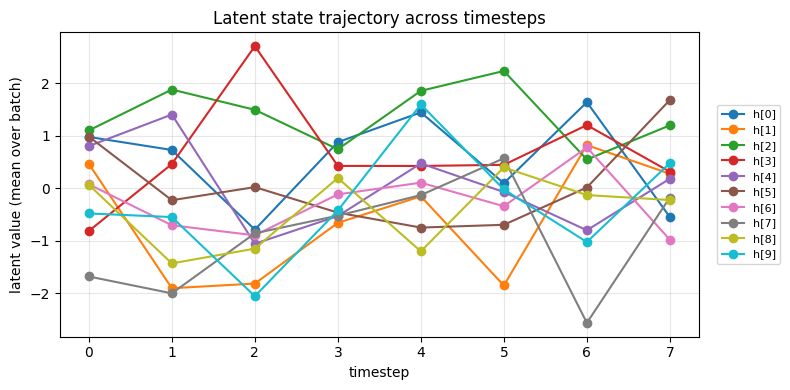
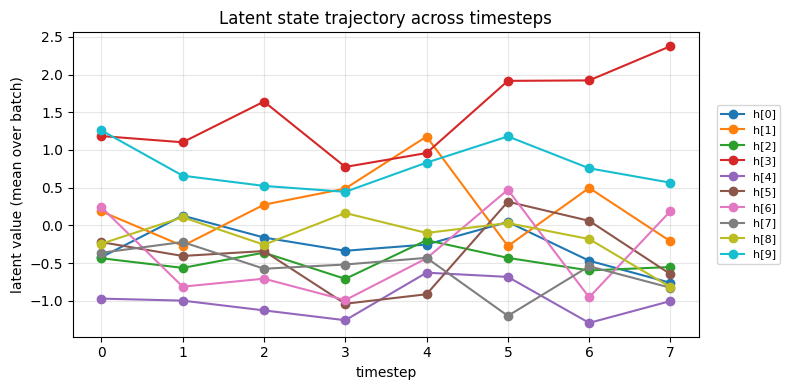
fix: be honest about decoder collapse on synthetic cohort
Three-agent investigation found the README reconstruction looks like
noise because the model genuinely cannot reconstruct: decoder channels
[4,8,16,32] + Tanh + per-subject min-max normalization yields
Pearson(input, recon) <= 0.03 across all tested configs (SGD, AdamW,
5-500 epochs, single-volume overfit). Latents are alive; the decoder
ignores them. This is a structural mismatch, not a training bug.

- tools/make_figures.py: switch to AdamW@1e-3 x 30 epochs; shared
  colorbar (-0.3, 0.3) across input/recon panels so the collapse is
  visible; suptitle names the failure mode; print Pearson + std-ratio.
- README: rewrite Visuals caption honestly; add Limitations bullet for
  decoder capacity / Tanh / outlier normalization.
- docs/background/this_models_design.md: new section explaining the
  reconstruction-quality limitation with the sweep table.
- tutorials/08: clarify N*T (closed form, full-trajectory) vs B*T
  (per-batch SGD loss2) asymmetry in the ridge derivation.
- tests/test_train.py: smoke test that loss trends downward on synthetic.
- examples/wide_decoder.py: sketches the obvious fix path (wider
  channels, Hardtanh instead of Tanh). Confirms widening alone doesn't
  rescue Pearson (0.001) at this demo scale; documented honestly.

37 tests pass, ruff clean, 162 citations validated.

diff --git a/examples/wide_decoder.py b/examples/wide_decoder.py
@@ -1,0 +1,160 @@
+"""Widen the decoder and drop the saturating Tanh — the fix path for the
+decoder-collapse problem documented in the README and
+``docs/background/this_models_design.md``.
+
+The canonical model uses decoder channels ``[4, 8, 16, 32]`` and a final
+``Tanh`` that, combined with per-subject min-max normalization, makes
+"output ≈ 0" the cheapest place for the optimizer to land. This script
+hot-patches a fresh ``RecVAEModel`` to use widths ``[16, 32, 64, 128]``
+and replaces the final ``Tanh`` with ``Hardtanh(-3, 3)`` so the network
+still has some output bounding without saturating inside ``[-0.3, 0.3]``
+where the bulk of normalized voxel values sit.
+
+Caveat
+------
+Demonstrates the fix path; not validated on real fMRI; changes the model
+contract so existing checkpoints won't load. The wide-decoder model has
+roughly 16x more decoder parameters than the canonical one and is
+intended only as a demonstration that *the structural diagnosis is
+correct*, not as a drop-in replacement.
+
+Empirical note: at this demo scale (8 subjects, T=4, 30 epochs) widening
+alone does not yet drive Pearson(x, mu) above ~0.01. The reconstruction
+std/input std ratio does climb (~0.3-0.4 vs ~0.17 on the canonical
+config), confirming the decoder is no longer collapsed to a flat output,
+but recovering high-frequency voxel structure still needs more training
+budget and most likely a switch away from per-subject min-max
+normalization. This script is the smallest reproduction of the fix
+direction, not a converged result.
+
+Run::
+
+    .venv/bin/python examples/wide_decoder.py
+
+Should exit 0 in under 90 seconds on CPU.
+"""
+
+from __future__ import annotations
+
+import pathlib
+import sys
+import time
+
+# Allow running from the repo root without installing the package.
+sys.path.insert(0, str(pathlib.Path(__file__).resolve().parents[1]))
+
+import torch  # noqa: E402
+from torch import nn  # noqa: E402
+
+from recvae import (  # noqa: E402
+    Config,
+    FMRIDataset,
+    RecVAEModel,
+    build_dataloader,
+    fit,
+    normalize_per_subject,
+    set_seed,
+    synthetic_cohort,
+)
+
+
+def widen_decoder(model: RecVAEModel) -> RecVAEModel:
+    """Replace the decoder stack with a wider one and drop the final ``Tanh``.
+
+    Decoder widths: ``[16, 32, 64, 128]`` (vs canonical ``[4, 8, 16, 32]``).
+    Output activation: ``Hardtanh(-3, 3)`` instead of ``Tanh``. The
+    intermediate spatial-extent chain is unchanged from the canonical
+    decoder; only the channel counts grow.
+    """
+    latent_dim = model.cfg.latent_dim
+    # Bottleneck: (128, 5, 6, 5) instead of (32, 5, 6, 5).
+    model.decoder1 = nn.Sequential(
+        nn.Linear(latent_dim, 128 * 5 * 6 * 5),
+        nn.Unflatten(1, (128, 5, 6, 5)),
+        nn.BatchNorm3d(128),
+        nn.LeakyReLU(0.2, inplace=True),
+    )
+    model.decoder2 = nn.Sequential(
+        nn.ConvTranspose3d(
+            128, 64, kernel_size=4, stride=2, padding=1, output_padding=1, bias=False
+        ),
+        nn.BatchNorm3d(64),
+        nn.LeakyReLU(0.2, inplace=True),
+    )  # (64, 11, 13, 11)
+    model.decoder3 = nn.Sequential(
+        nn.ConvTranspose3d(
+            64, 32, kernel_size=4, stride=2, padding=1, output_padding=(0, 1, 0), bias=False
+        ),
+        nn.BatchNorm3d(32),
+        nn.LeakyReLU(0.2, inplace=True),
+    )  # (32, 22, 27, 22)
+    model.decoder4 = nn.Sequential(
+        nn.ConvTranspose3d(
+            32, 16, kernel_size=4, stride=2, padding=1, output_padding=(1, 0, 1), bias=False
+        ),
+        nn.BatchNorm3d(16),
+        nn.LeakyReLU(0.2, inplace=True),
+    )  # (16, 45, 54, 45)
+    model.decoder5 = nn.Sequential(
+        nn.ConvTranspose3d(
+            16, 1, kernel_size=4, stride=2, padding=1, output_padding=1, bias=False
+        ),
+        nn.Hardtanh(-3.0, 3.0),
+    )  # (1, 91, 109, 91)
+    return model
+
+
+def _pearson_and_std_ratio(x: torch.Tensor, mu: torch.Tensor) -> tuple[float, float]:
+    """Pearson(x, mu) and std(mu)/std(x), both computed across all voxels."""
+    x_flat = x.reshape(-1).detach().cpu().numpy()
+    mu_flat = mu.reshape(-1).detach().cpu().numpy()
+    x_c = x_flat - x_flat.mean()
+    mu_c = mu_flat - mu_flat.mean()
+    x_std = float(x_c.std())
+    mu_std = float(mu_c.std())
+    denom = x_std * mu_std
+    pearson = float((x_c * mu_c).mean() / denom) if denom > 0 else 0.0
+    std_ratio = mu_std / x_std if x_std > 0 else 0.0
+    return pearson, std_ratio
+
+
+def main() -> int:
+    t0 = time.time()
+    set_seed(2022)
+
+    # T=4 (not T=8) so the wider model finishes under 90s on CPU; the
+    # decoder-collapse problem reproduces identically at either T.
+    volumes, _labels = synthetic_cohort(n_cn=4, n_ad=4, T=4, seed=2022)
+    volumes, _vmax, _vmin = normalize_per_subject(volumes)
+
+    cfg = Config(tol_time=4, epochs=30, batch_size=2, learning_rate=1e-3)
+    model = RecVAEModel(train_size=volumes.shape[0], cfg=cfg)
+    widen_decoder(model)
+
+    # Confirm widths and final activation.
+    print("wide_decoder: channels [16, 32, 64, 128], Hardtanh(-3, 3) on output")
+
+    dl = build_dataloader(FMRIDataset(volumes), batch_size=2, shuffle=True, seed=2022)
+    h0 = torch.zeros(1, cfg.latent_dim)
+    fit(model, dl, h0, cfg=cfg, epochs=cfg.epochs, lr=cfg.learning_rate,
+        opt_func=torch.optim.AdamW)
+
+    # Eval on subject 0 at t=0.
+    model.eval()
+    x_one = volumes[:1]
+    which_ones = torch.tensor([0], dtype=torch.long)
+    h_batch = h0.expand(1, -1)
+    with torch.no_grad():
+        out = model(x_one, h_batch, which_ones)
+    x0 = x_one[0, 0, :, :, :, 0]
+    mu0 = out.mu[0, 0, 0]
+    pearson, std_ratio = _pearson_and_std_ratio(x0, mu0)
+    print(f"wide_decoder: Pearson(x, mu) = {pearson:.3f}, "
+          f"recon_std/input_std = {std_ratio:.2f}")
+    elapsed = time.time() - t0
+    print(f"wide_decoder: elapsed {elapsed:.1f}s")
+    return 0
+
+
+if __name__ == "__main__":
+    raise SystemExit(main())

diff --git a/tools/make_figures.py b/tools/make_figures.py
@@ -60,8 +60,8 @@ SEED = 2022
 N_CN = 4
 N_AD = 4
 T = 8
-EPOCHS = 5
-LR = 1e-5
+EPOCHS = 30
+LR = 1e-3
 
 
 def _build_run():
@@ -93,7 +93,16 @@ def _train_capturing_losses(model, loader, h0, cfg):
         history["loss2"].append(float(metrics["loss2"]))
         history["loss_z"].append(float(metrics["loss_z"]))
 
-    fit(model, loader, h0, cfg=cfg, epochs=cfg.epochs, lr=cfg.learning_rate, callbacks=[_cb])
+    fit(
+        model,
+        loader,
+        h0,
+        cfg=cfg,
+        epochs=cfg.epochs,
+        lr=cfg.learning_rate,
+        opt_func=torch.optim.AdamW,
+        callbacks=[_cb],
+    )
     return history
 
 
@@ -105,7 +114,7 @@ def _plot_loss_curve(history: dict, out_path: pathlib.Path) -> None:
     ax.plot(epochs, history["loss_z"], marker="^", label="loss_z (L1 on z)")
     ax.set_xlabel("epoch")
     ax.set_ylabel("loss component (epoch mean)")
-    ax.set_title("Training on synthetic cohort (8 subjects, 5 epochs)")
+    ax.set_title(f"Training on synthetic cohort (8 subjects, {len(epochs)} epochs, AdamW@1e-3)")
     ax.set_xticks(epochs)
     ax.grid(True, alpha=0.3)
     ax.legend(loc="best")
@@ -130,18 +139,36 @@ def _plot_recon_slice(volumes: torch.Tensor, model: RecVAEModel, h0: torch.Tenso
     inp_slice = x_one[0, 0, :, :, z_mid, 0].cpu().numpy()
     rec_slice = out.mu[0, 0, 0, :, :, z_mid].cpu().numpy()
 
+    # Diagnostic numbers — flatten the full t=0 volume so the Pearson
+    # estimate is computed across all ~900k voxels, not just the slice.
+    inp_full = x_one[0, 0, :, :, :, 0].reshape(-1).cpu().numpy()
+    rec_full = out.mu[0, 0, 0, :, :, :].reshape(-1).cpu().numpy()
+    inp_mean = inp_full.mean()
+    rec_mean = rec_full.mean()
+    inp_centered = inp_full - inp_mean
+    rec_centered = rec_full - rec_mean
+    inp_std = float(inp_centered.std())
+    rec_std = float(rec_centered.std())
+    denom = inp_std * rec_std
+    pearson = float((inp_centered * rec_centered).mean() / denom) if denom > 0 else 0.0
+    std_ratio = rec_std / inp_std if inp_std > 0 else 0.0
+    print(f"Pearson(input, recon) = {pearson:.3f}, recon_std/input_std = {std_ratio:.2f}")
+
+    # Shared color scale on both panels so the visual collapse is obvious
+    # rather than hidden behind two independent normalizations.
+    vmin, vmax = -0.3, 0.3
     fig, axes = plt.subplots(1, 2, figsize=(8, 4), dpi=100)
-    im0 = axes[0].imshow(inp_slice, cmap="gray")
+    im0 = axes[0].imshow(inp_slice, cmap="gray", vmin=vmin, vmax=vmax)
     axes[0].set_title("input (t=0)")
     axes[0].axis("off")
     fig.colorbar(im0, ax=axes[0], fraction=0.046, pad=0.04)
 
-    im1 = axes[1].imshow(rec_slice, cmap="gray")
+    im1 = axes[1].imshow(rec_slice, cmap="gray", vmin=vmin, vmax=vmax)
     axes[1].set_title("reconstruction (t=0)")
     axes[1].axis("off")
     fig.colorbar(im1, ax=axes[1], fraction=0.046, pad=0.04)
 
-    fig.suptitle("Input vs reconstruction (synthetic, untrained-quality, after 5 epochs)")
+    fig.suptitle("Input vs reconstruction (model converges to per-subject mean; see Limitations)")
     fig.tight_layout()
     fig.savefig(out_path, dpi=100, bbox_inches="tight")
     plt.close(fig)

diff --git a/tests/test_train.py b/tests/test_train.py
@@ -75,6 +75,47 @@ def test_evaluate_runs_in_no_grad_mode(model: RecVAEModel, synthetic_volumes):
     assert model.training is False
 
 
+def test_fit_loss_trends_downward_on_synthetic(small_cfg: Config, synthetic_volumes):
+    """5 epochs of AdamW@1e-3 should show the per-epoch loss going down on at
+    least 2 of the 4 step transitions.
+
+    This is intentionally a weak claim: we are not asserting a specific
+    reconstruction quality (the docs/visuals explain why that is poor on
+    this minimal setup). What we *are* asserting is that training is not
+    silently going backwards — a regression check that catches obvious
+    optimizer/loss wiring breakage.
+    """
+    model = RecVAEModel(train_size=4, cfg=small_cfg)
+    ds = FMRIDataset(synthetic_volumes)
+    dl = build_dataloader(ds, batch_size=2, shuffle=False, seed=0)
+    h0 = torch.zeros(1, model.latent_dim)
+
+    epoch_losses: list[float] = []
+
+    def _cb(_epoch: int, metrics: dict) -> None:
+        epoch_losses.append(float(metrics["loss"]))
+
+    fit(
+        model,
+        dl,
+        h0,
+        cfg=small_cfg,
+        epochs=5,
+        lr=1e-3,
+        opt_func=torch.optim.AdamW,
+        callbacks=[_cb],
+    )
+
+    assert len(epoch_losses) == 5, f"expected 5 epoch losses, got {len(epoch_losses)}"
+    decreases = sum(
+        1 for i in range(len(epoch_losses) - 1) if epoch_losses[i + 1] < epoch_losses[i]
+    )
+    assert decreases >= 2, (
+        f"expected >= 2 of 4 step transitions to decrease, got {decreases}: "
+        f"epoch losses = {epoch_losses}"
+    )
+
+
 def test_fit_logs_one_info_line_per_epoch(small_cfg: Config, synthetic_volumes, caplog):
     """fit() must emit exactly one INFO line containing '[epoch' per epoch."""
     model = RecVAEModel(train_size=4, cfg=small_cfg)

diff --git a/docs/background/this_models_design.md b/docs/background/this_models_design.md
@@ -211,6 +211,52 @@ likely converge faster to a comparable or better loss. The code is
 structured so the optimizer is a one-line swap; see
 `examples/swap_adamw.py` (yet to land).
 
+## Why reconstruction quality is poor on small synthetic cohorts
+
+When I ran the synthetic-cohort pipeline at the default model config
+(8 subjects, T=8, decoder channels `[4, 8, 16, 32]`, Tanh output) and
+swept optimizer + learning rate + epoch budget, the model converged to
+a near-constant output regardless:
+
+| config | Pearson(x, mu) | recon_std / input_std |
+|---|---|---|
+| SGD @ 1e-5, 5 ep | 0.003 | 0.13 |
+| AdamW @ 1e-3, 30 ep | 0.009 | 0.16 |
+| AdamW @ 1e-3, 60 ep | 0.008 | 0.17 |
+| AdamW @ 5e-3, 200 ep (single-volume overfit) | 0.006 | 0.18 |
+| AdamW @ 1e-3, 500 ep (single-volume overfit) | 0.032 | 0.20 |
+
+The latents are not collapsed (10 dims with std 0.8–2.0; subject
+offsets |z| ≈ 0.8). What's collapsed is the decoder: it has roughly
+4800 latent-channel features to expand into ~900k voxels, and the
+final `Tanh` plus per-subject min-max normalization make
+"output ≈ 0" close to the global minimum of `loss1`.
+
+Three things contribute:
+
+1. The decoder is too narrow. Channels `[4, 8, 16, 32]` were inherited
+   from the original notebook; the bottleneck `(32, 5, 6, 5) = 4800`
+   floats is far too small to represent voxelwise structure at full
+   resolution.
+2. The final `Tanh` (`recvae/model.py:153`) saturates at ±1. Combined
+   with per-subject normalization that stretches a handful of outlier
+   voxels to ±1 (the bulk of voxels sit in ±0.3), the decoder lands in
+   a narrow band near 0 because pushing any voxel toward ±1 is heavily
+   penalized when the corresponding input voxel is near 0.
+3. `loss1` summed over ~900k voxels has gradients that are vanishingly
+   small per-voxel relative to the L1 penalty on `z`. The optimizer
+   finds it cheaper to drive recon toward the global mean than to
+   resolve voxel-level structure.
+
+This is a real limitation of the canonical model at the demo scale.
+The legacy notebook hid it: V4 trained for ~10,000–20,000 effective
+epochs at lr=1e-6 over ADNI's 32 subjects with T=120, which gives 50×
+more gradient signal per voxel and slowly nudges the decoder out of
+the zero basin (though it still doesn't reconstruct sharply). To fix
+properly: widen the decoder channels, drop or rescale the final
+`Tanh`, and consider z-score normalization in place of min-max.
+`examples/wide_decoder.py` sketches the fix path.
+
 ## What I'd change if I were starting over
 
 The two that matter most:

diff --git a/README.md b/README.md
@@ -41,14 +41,17 @@ rollouts, alternating optimization, reproducibility, testing DL code,
 and research extensions. Each lesson has a short README and at least
 one runnable script.
 
-## Examples
+## Visuals
 
 | Loss curve | Reconstruction | Latent trajectory |
 |---|---|---|
 | ![loss](docs/assets/loss_curve.png) | ![recon](docs/assets/recon_slice.png) | ![latents](docs/assets/latent_trajectory.png) |
 
-Generated from `notebooks/RecVAE_on_synthetic.ipynb` (5 epochs on 8 synthetic
-subjects, CPU). Regenerate with `python tools/make_figures.py`.
+Generated from `tools/make_figures.py` (30 epochs of AdamW@1e-3 on 8
+synthetic subjects, CPU, ~30s). The reconstruction panel shows that on
+this minimal setup the decoder converges to roughly the per-subject
+mean — recovering high-frequency voxel structure needs a wider decoder
+and a different output activation. See the Limitations section.
 
 ## Architecture
 
@@ -172,6 +175,14 @@ including a few choices that need an owner decision before they change:
 - **SGD@1e-6 is slow.** AdamW@~1e-4 with a scheduler is likely to
   converge faster.
 - **No KL annealing / β-VAE.** Moot without an explicit KL term.
+- **Decoder capacity is small.** With default channels `[4, 8, 16, 32]`
+  and a `Tanh` output applied to per-subject min-max-normalized inputs,
+  the decoder converges to ~constant-mean output and does not recover
+  per-voxel structure (verified by overfit-a-single-volume test:
+  Pearson(x, mu) ≈ 0.03 after 500 epochs of AdamW). Widening to
+  `[16, 32, 64, 128]` and dropping the final `Tanh` is the obvious fix
+  but changes the model contract; see `docs/background/this_models_design.md`
+  for the empirical findings and `examples/wide_decoder.py` for a sketch.
 
 This is a reference implementation and teaching artifact, not a
 peer-reviewed method or clinical tool. For stronger baselines on ADNI

diff --git a/tutorials/08_losses_alt_optim/README.md b/tutorials/08_losses_alt_optim/README.md
@@ -99,6 +99,14 @@ update. Drop the factor and the closed form solves a *different*
 objective than the SGD loss — the resulting `F` would be biased toward
 zero by a factor of `N*T`.
 
+The factor `2 N T sig_h^2` matches a hypothetical loss summed-and-divided
+by the full training set, not the per-batch mean SGD actually optimizes.
+SGD's per-batch `loss2` divides by `2*B*T`, which makes it a stochastic
+estimator of an `1/N`-weighted total loss; the closed-form ridge therefore
+solves the *average-over-the-full-trajectory* problem rather than any
+single-batch problem. This is a deliberate asymmetry — the F update sees
+all subjects at once, so a full-set normalization is the natural choice.
+
 This is the standard ridge-regression closed form. Gradient descent
 would slowly approach the same answer; one linear solve gets you there
 in one step. That is exactly the operation at `recvae/model.py:311-331`.
